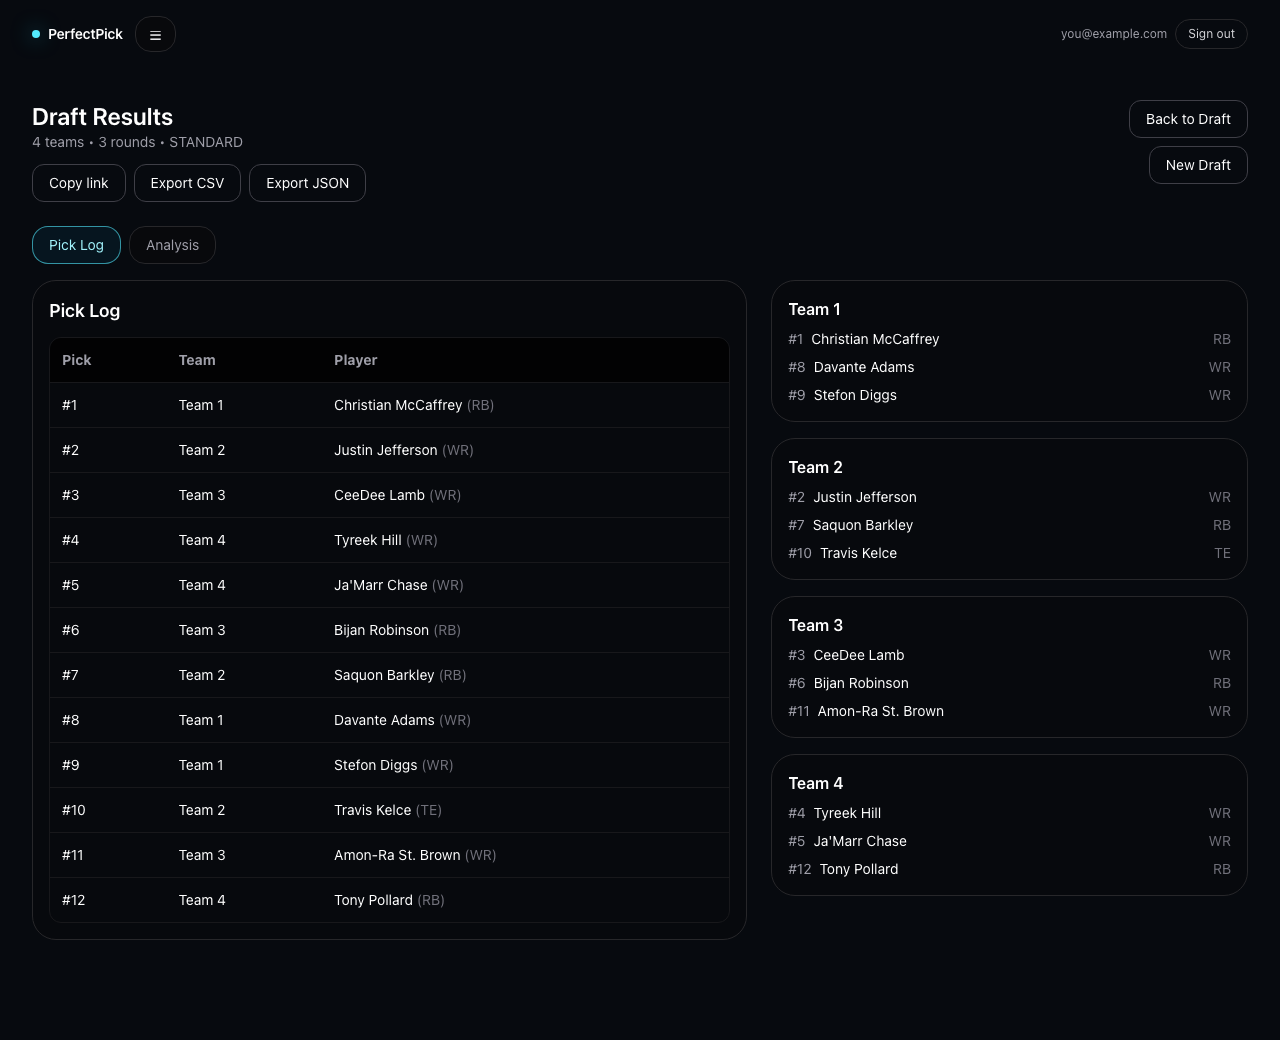
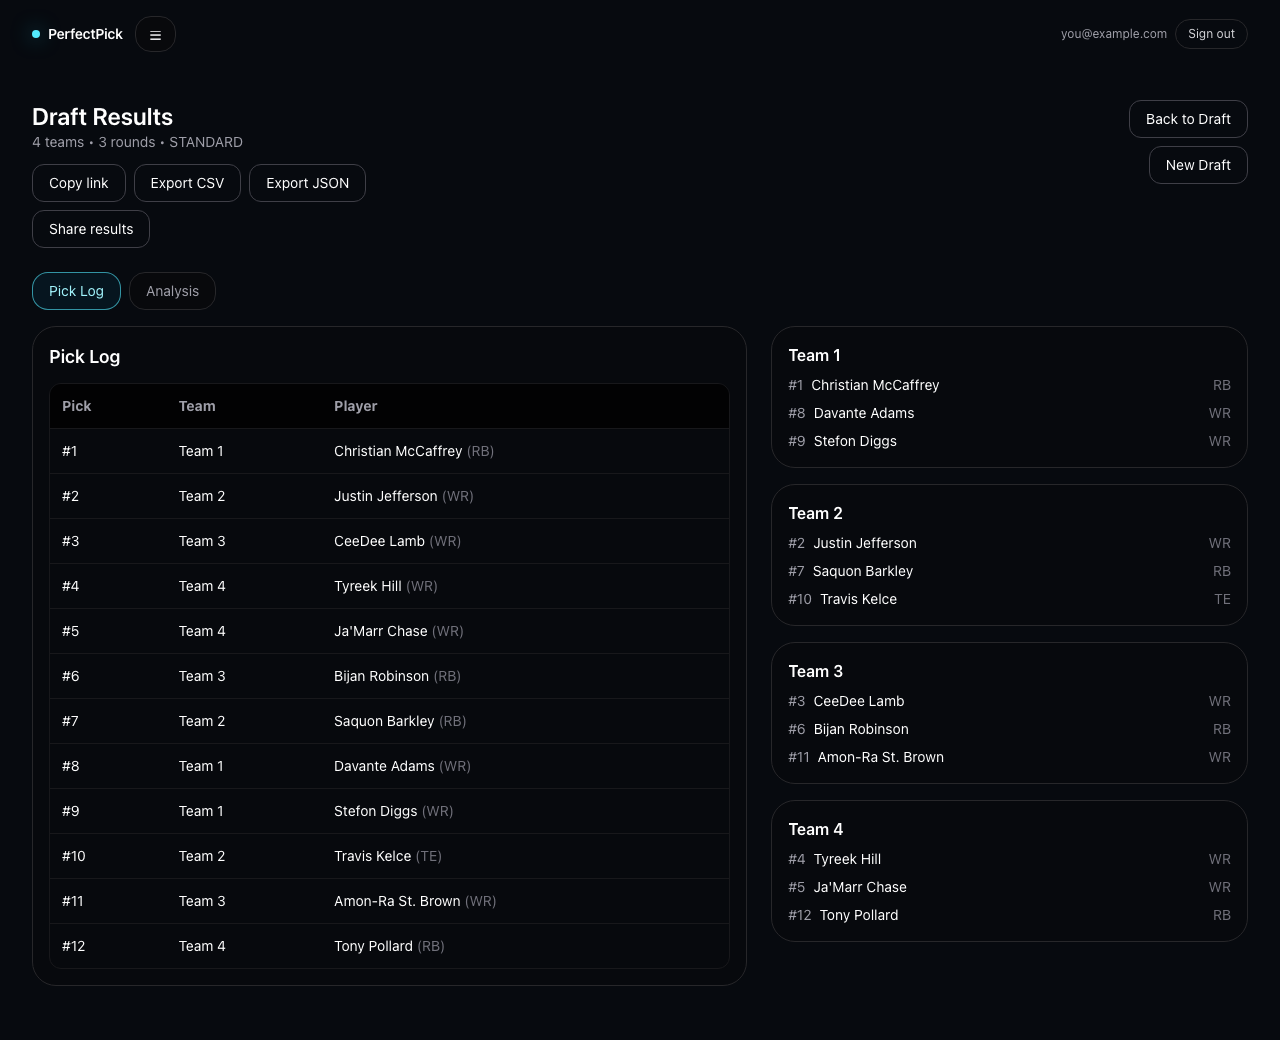
feat: share and revoke a results link from the results page
Adds a Share results / Copy / Revoke control to the completed-draft
results page, wired to the existing owner-only POST/DELETE
/drafts/{draftId}/share endpoints. Regenerates screenshots/results.png
since the header now shows the new control.

diff --git a/frontend/src/pages/Results.jsx b/frontend/src/pages/Results.jsx
@@ -1,6 +1,6 @@
 import { useEffect, useState } from "react";
 import { Link, useParams, useSearchParams } from "react-router-dom";
-import { apiGet } from "../lib/api";
+import { apiGet, apiPost, apiDelete } from "../lib/api";
 import { usePageTitle } from "../lib/usePageTitle";
 import { analyzeDraft } from "../lib/draftAnalysis";
 import { download } from "../lib/download";
@@ -10,6 +10,7 @@ export default function Results() {
   const [draft, setDraft] = useState(null);
   const [err, setErr] = useState("");
   const [copied, setCopied] = useState(false);
+  const [shareUrl, setShareUrl] = useState(null);
   const [searchParams, setSearchParams] = useSearchParams();
   // Anything unrecognised -- including an absent parameter -- is the pick log,
   // so an old link with no ?view keeps behaving exactly as it did.
@@ -31,6 +32,16 @@ export default function Results() {
   for (let t = 1; t <= draft.teams; t++) rosters[t] = [];
   for (const p of draft.picks) {
     if (p.player && rosters[p.team]) rosters[p.team].push(p);
+  }
+
+  async function makeShareLink() {
+    const { shareToken } = await apiPost(`/drafts/${draftId}/share`, {});
+    setShareUrl(`${window.location.origin}/shared/${draftId}?t=${encodeURIComponent(shareToken)}`);
+  }
+
+  async function revokeShareLink() {
+    await apiDelete(`/drafts/${draftId}/share`);
+    setShareUrl(null);
   }
 
   const copyLink = async () => {
@@ -96,6 +107,43 @@ export default function Results() {
               Export JSON
             </button>
           </div>
+          {draft.completed && (
+            <div className="mt-2 flex flex-wrap items-center gap-2">
+              {shareUrl ? (
+                <>
+                  <input
+                    data-testid="share-link"
+                    readOnly
+                    value={shareUrl}
+                    className="w-72 rounded-xl border border-zinc-800 bg-zinc-950/70 px-2 py-1 text-xs"
+                    onFocus={(e) => e.target.select()}
+                  />
+                  <button
+                    type="button"
+                    onClick={() => navigator.clipboard.writeText(shareUrl)}
+                    className="rounded-xl border border-zinc-700 px-4 py-2 text-sm hover:border-zinc-500"
+                  >
+                    Copy
+                  </button>
+                  <button
+                    type="button"
+                    onClick={revokeShareLink}
+                    className="rounded-xl border border-zinc-700 px-4 py-2 text-sm hover:border-zinc-500"
+                  >
+                    Revoke
+                  </button>
+                </>
+              ) : (
+                <button
+                  type="button"
+                  onClick={makeShareLink}
+                  className="rounded-xl border border-zinc-700 px-4 py-2 text-sm hover:border-zinc-500"
+                >
+                  Share results
+                </button>
+              )}
+            </div>
+          )}
         </div>
         <div className="flex flex-col gap-2 sm:items-end">
           <Link

diff --git a/frontend/tests/shared.spec.js b/frontend/tests/shared.spec.js
@@ -1,6 +1,18 @@
 import { test, expect } from "@playwright/test";
+import { DRAFT_ID, makeCompletedDraft } from "./fixtures.js";
+import { signIn } from "./auth.js";
 
 const API = "**/drafts/*/shared*";
+
+const HTTP_API = "http://localhost:9999";
+
+async function openCompletedResults(page) {
+  await page.route(`${HTTP_API}/drafts/${DRAFT_ID}`, (r) =>
+    r.fulfill({ json: makeCompletedDraft() })
+  );
+  await signIn(page);
+  await page.goto(`/draft/${DRAFT_ID}/results`);
+}
 
 const SHARED_BODY = {
   format: "ppr",
@@ -49,4 +61,34 @@ test("the shared view offers nothing that implies participation", async ({ page 
 
   await expect(page.getByRole("button", { name: /copy invite/i })).toHaveCount(0);
   await expect(page.getByRole("button", { name: /export|download/i })).toHaveCount(0);
+});
+
+test("the owner of a finished draft can create and copy a share link", async ({ page, context }) => {
+  await context.grantPermissions(["clipboard-read", "clipboard-write"]);
+  await page.route(`${HTTP_API}/drafts/${DRAFT_ID}/share`, (r) =>
+    r.fulfill({ json: { shareToken: "share-abc" } })
+  );
+  // Sign in and open a COMPLETED draft's results -- reuse results.spec.js's
+  // helpers for both.
+  await openCompletedResults(page);
+
+  await page.getByRole("button", { name: /share/i }).click();
+  const link = await page.getByTestId("share-link").inputValue();
+  expect(link).toContain("/shared/");
+  expect(link).toContain("t=share-abc");
+});
+
+test("revoking removes the link from the page", async ({ page }) => {
+  await page.route(`${HTTP_API}/drafts/${DRAFT_ID}/share`, (r) =>
+    r.request().method() === "DELETE"
+      ? r.fulfill({ json: { ok: true } })
+      : r.fulfill({ json: { shareToken: "share-abc" } })
+  );
+  await openCompletedResults(page);
+
+  await page.getByRole("button", { name: /share/i }).click();
+  await expect(page.getByTestId("share-link")).toBeVisible();
+
+  await page.getByRole("button", { name: /revoke/i }).click();
+  await expect(page.getByTestId("share-link")).toHaveCount(0);
 });
